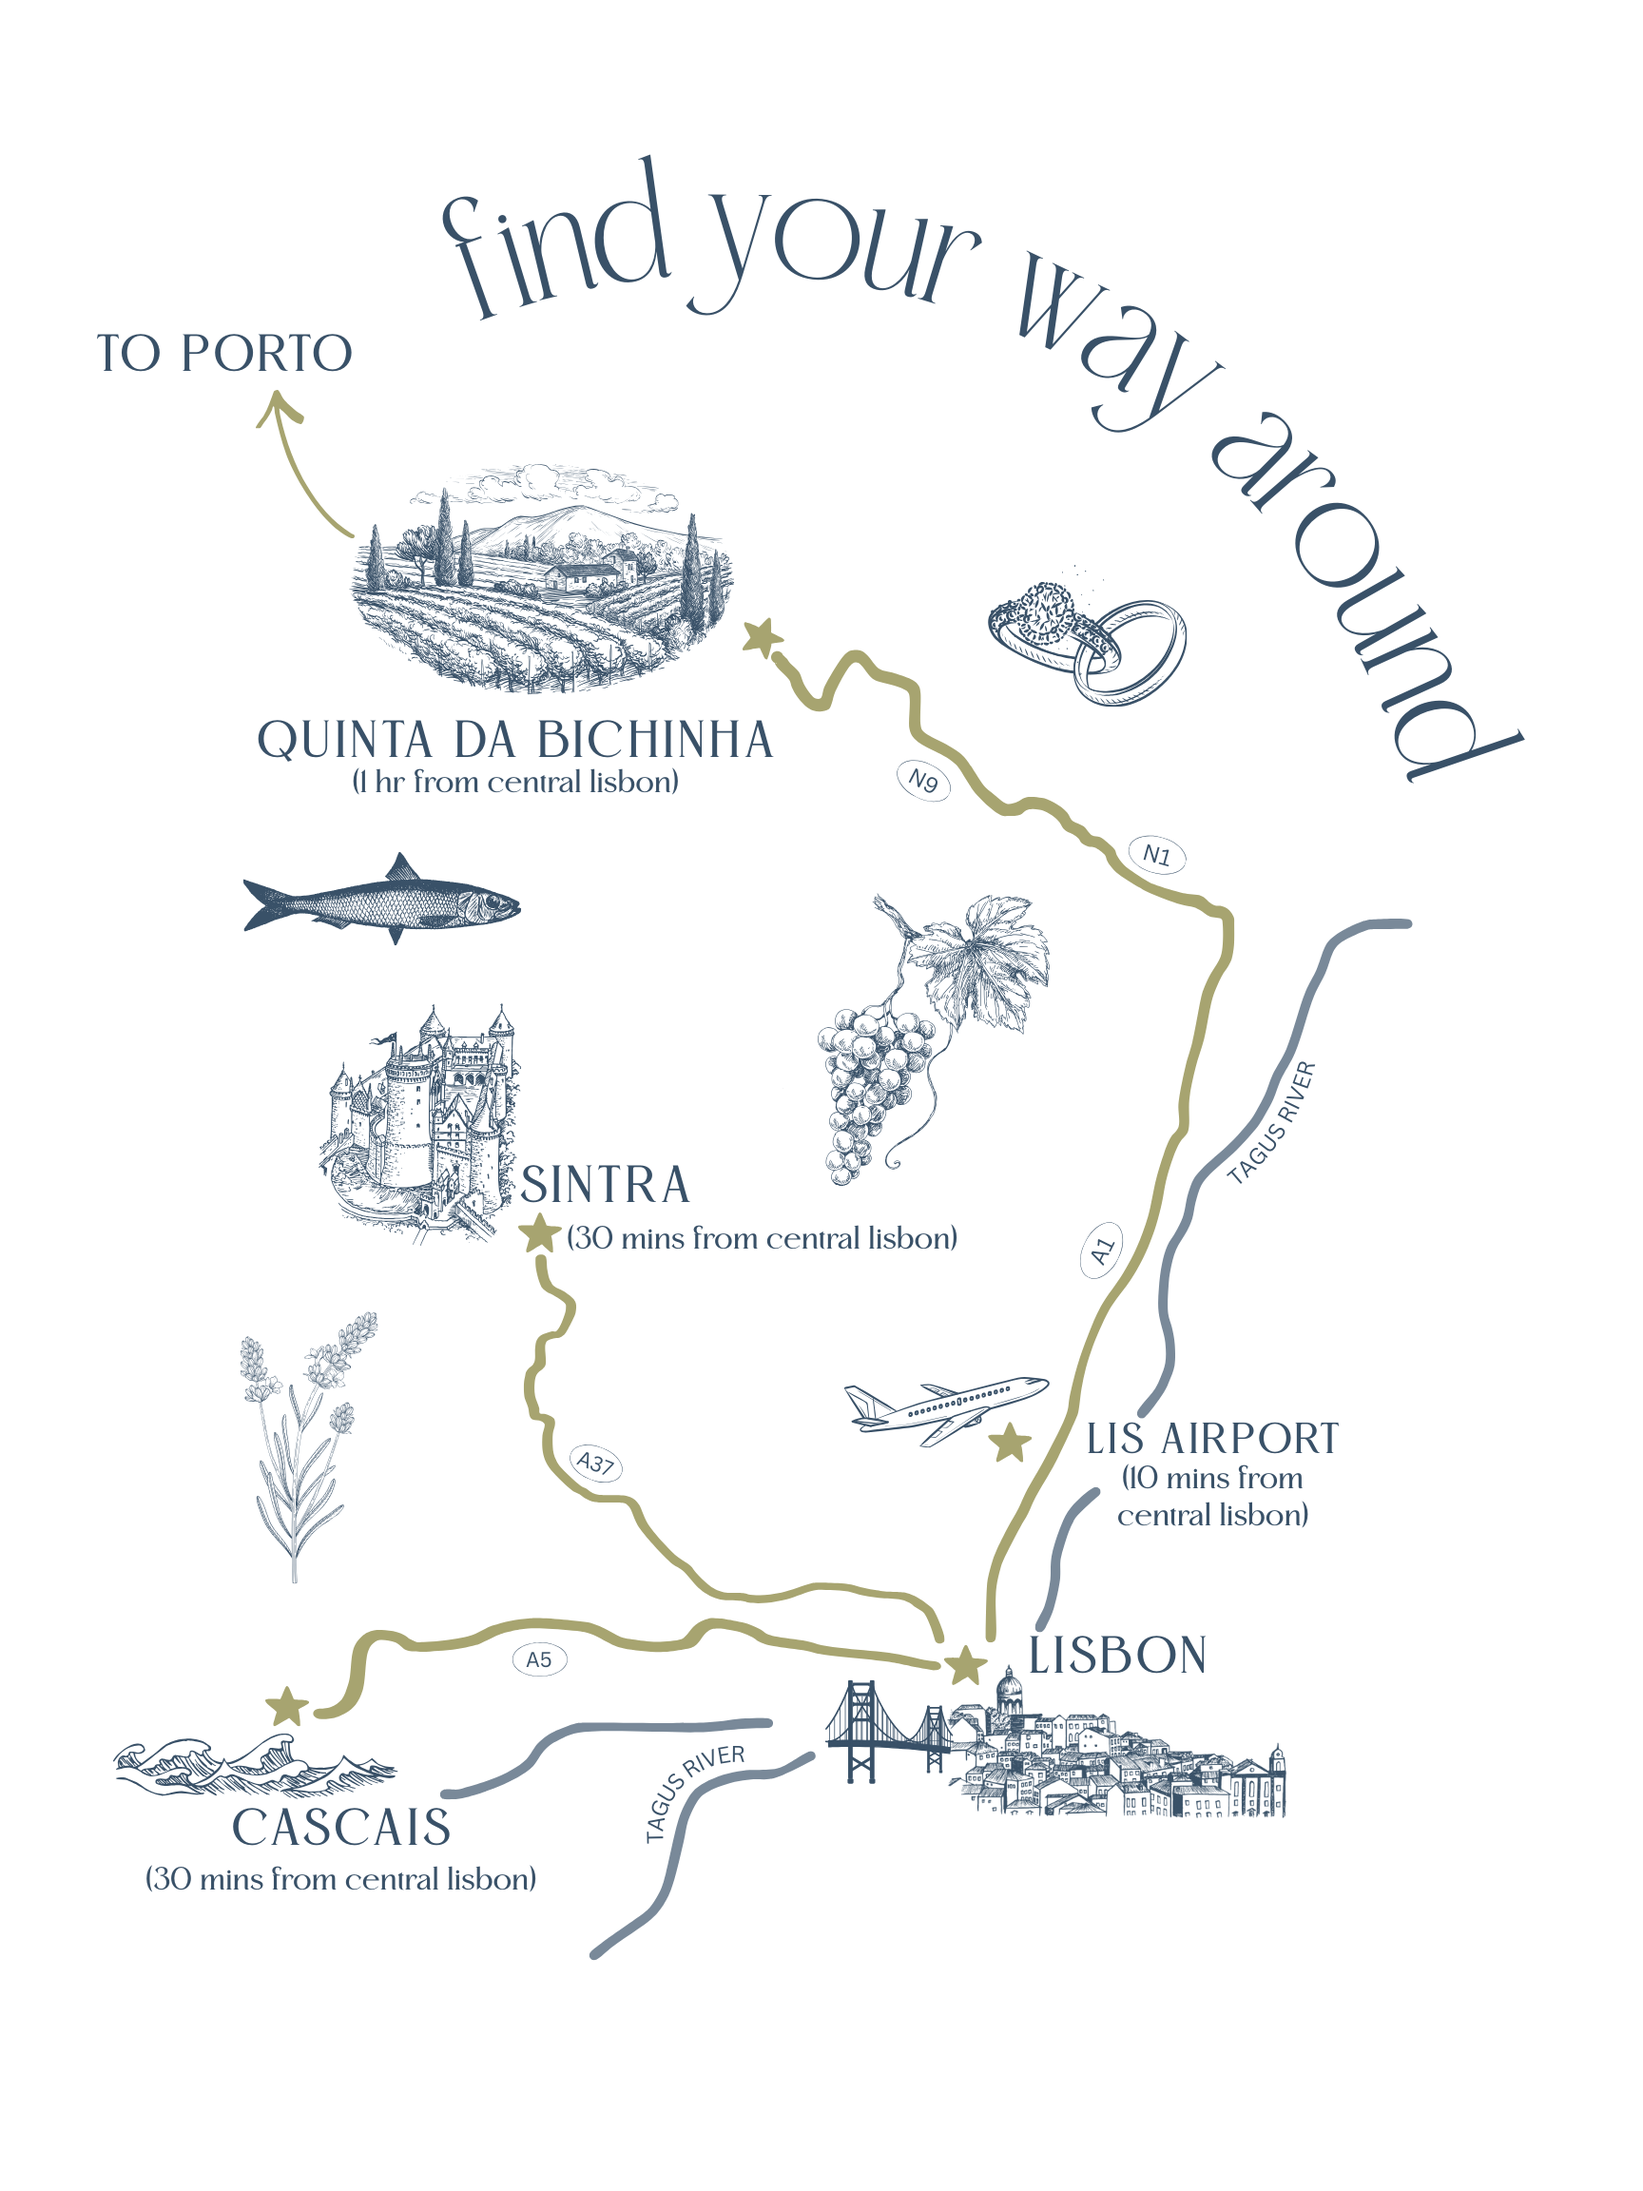
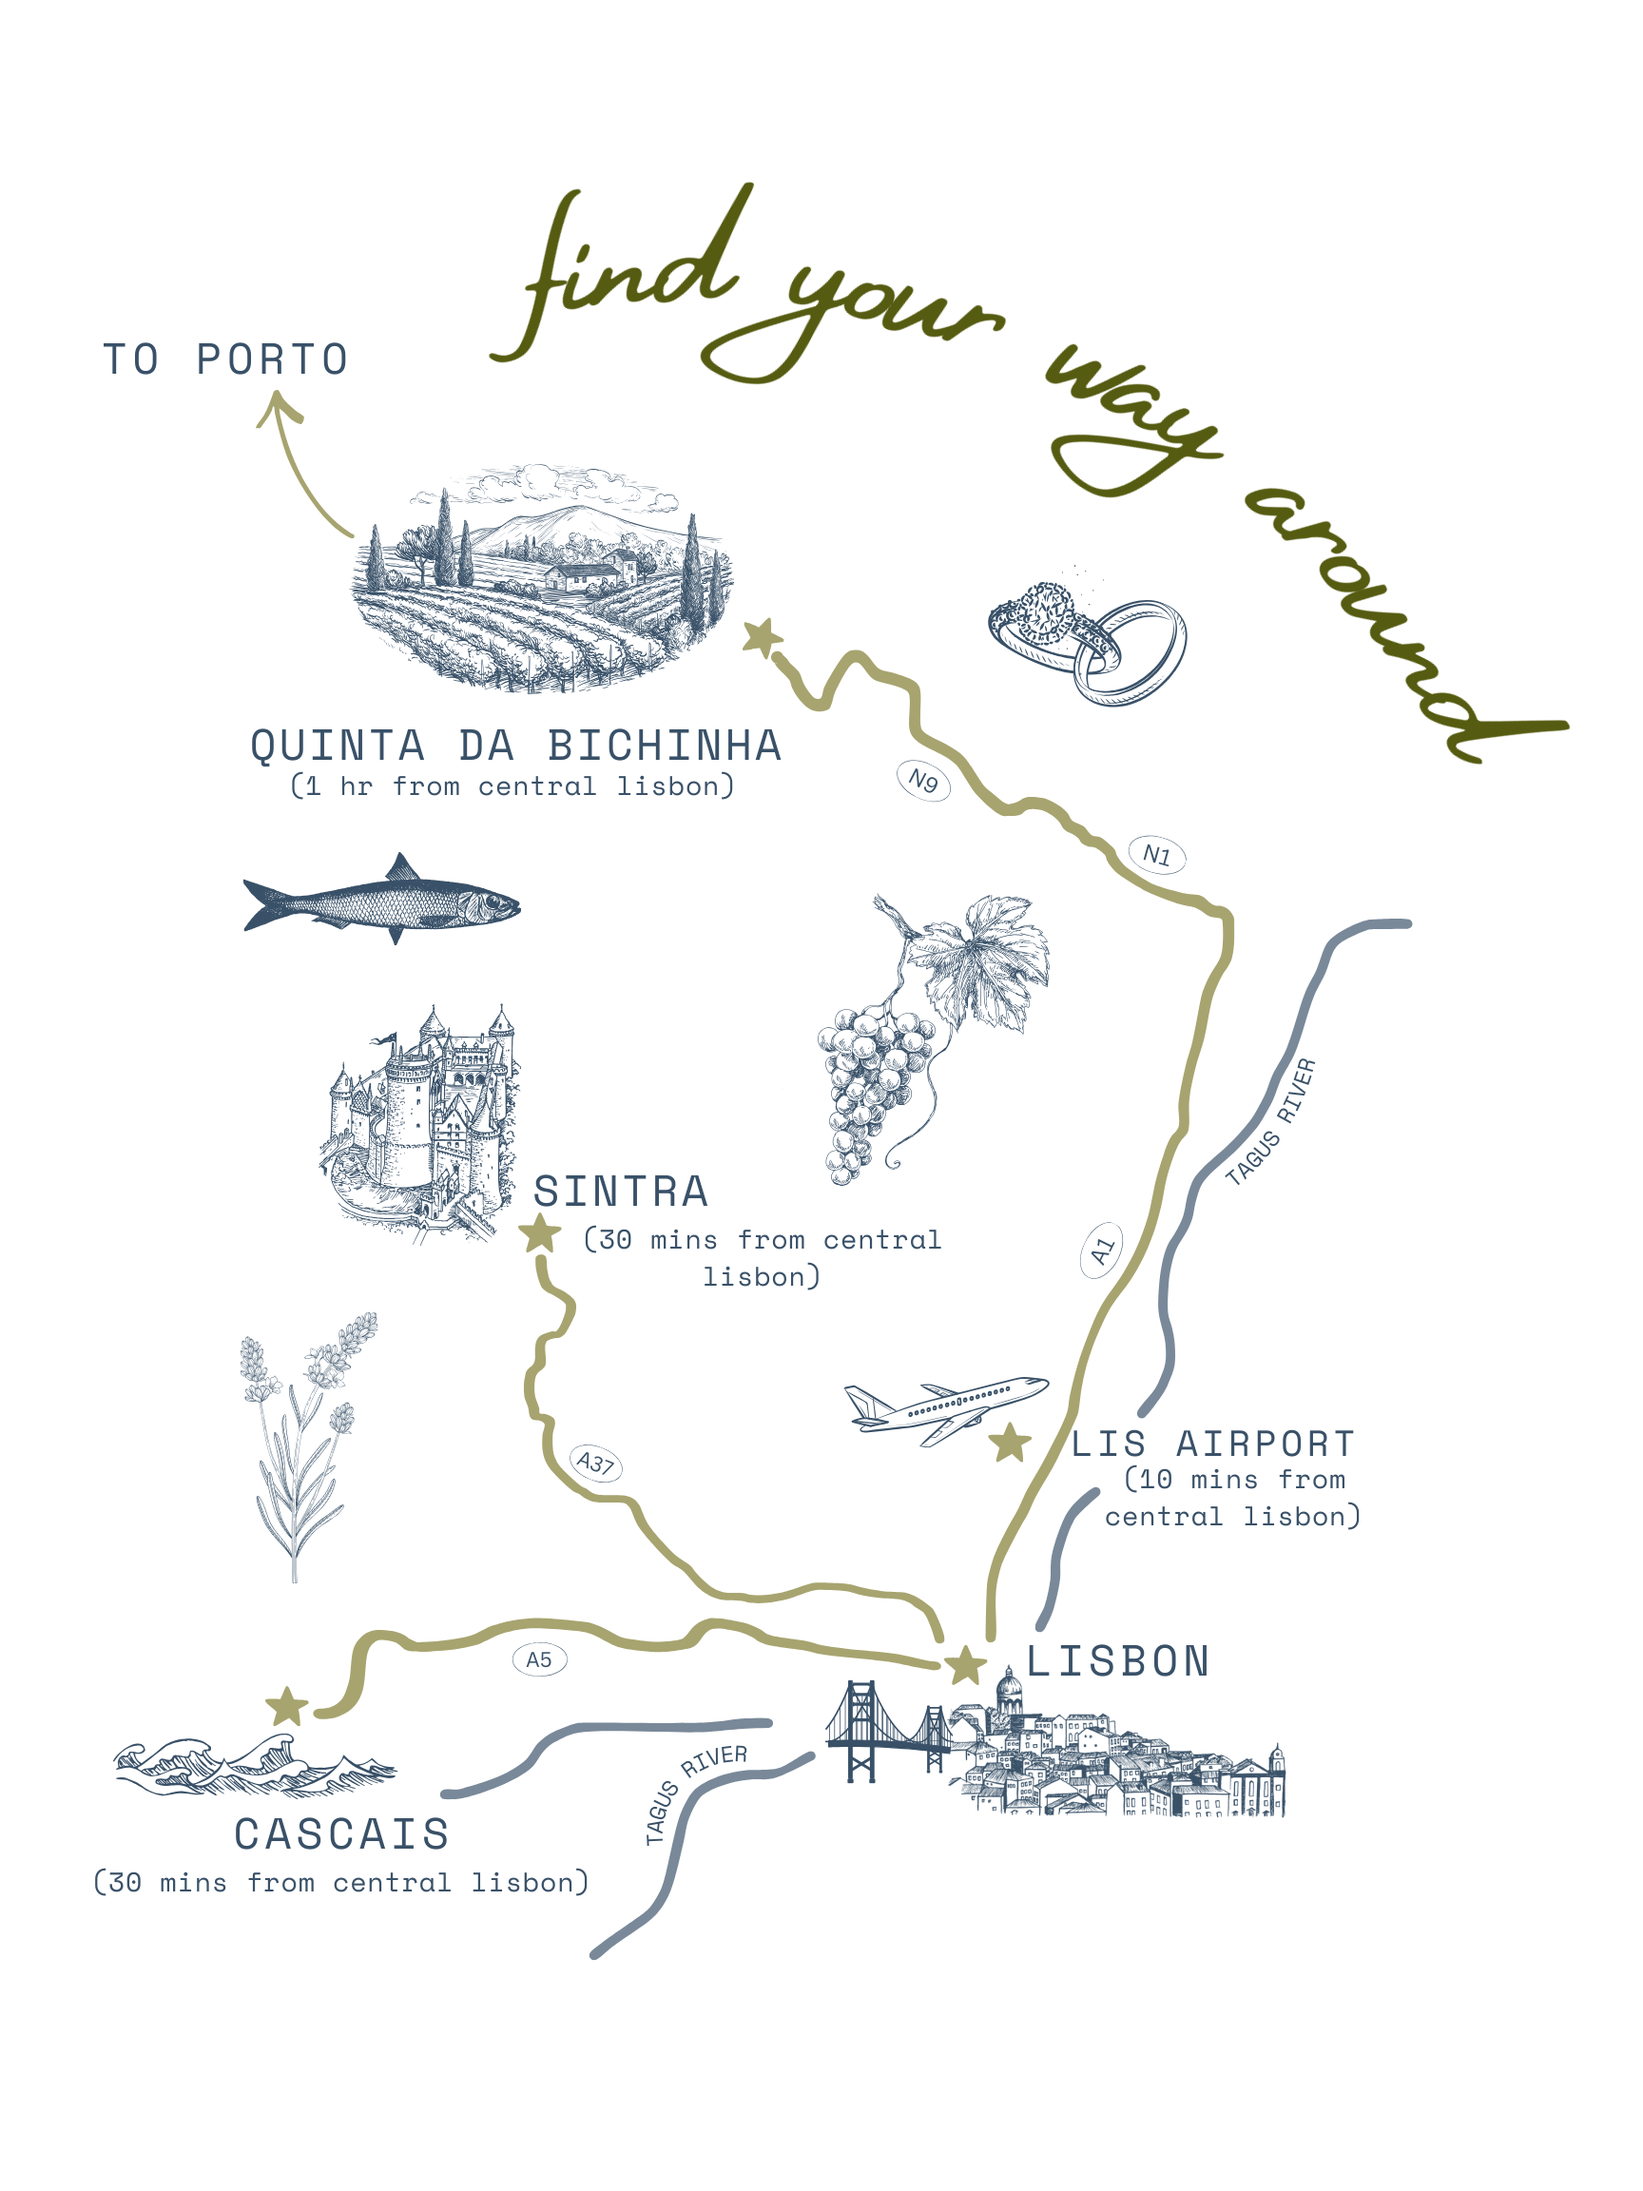
Change map

diff --git a/components/TravelSection.tsx b/components/TravelSection.tsx
@@ -1,0 +1,127 @@
+'use client';
+
+import React from 'react';
+import Image from 'next/image';
+import { motion } from 'framer-motion';
+import { ExternalLink } from 'lucide-react';
+
+const THINGS_TO_DO = [
+  {
+    title: 'Food and Wine Tour',
+    description: "We got to taste cheese, Chouriço, bifana, traditional rices, Port, and Lisbon wines. It was well worth the $, we had amazing guides, and met fun people!",
+    icon: '/images/travel-icons/food-tour.png',
+    link: 'https://tinyurl.com/yc6cs2c2'
+  },
+  {
+    title: 'Time Out Market',
+    description: "Taste the iconic pastel de nata pastries and other goodies at this historic market hall.",
+    icon: '/images/travel-icons/time-out-market.png',
+    link: 'https://www.instagram.com/timeoutmarketlisboa/?hl=en'
+  },
+  {
+    title: 'Day Trip to Sintra',
+    description: "Visit the Pena Palace and beautiful surrounding park grounds. It's truly a magical place straight out of a fairytale.",
+    icon: '/images/travel-icons/sintra.png',
+    link: 'https://tinyurl.com/2saxdryt'
+  },
+  {
+    title: 'A Ginjinha',
+    description: "Walk to A Ginjinha to shoot the sour cherry liquor Lisbon is known for - only 1.55 euros!",
+    icon: '/images/travel-icons/jijinha.png',
+    link: 'https://maps.app.goo.gl/tFev5isk7SzbzZSa6'
+  },
+  {
+    title: 'Tejo Bar',
+    description: "Hangout late into the night at Tejo Bar to hear traditional fado music. Quite possibly the smallest bar I've ever stepped foot into!",
+    icon: '/images/travel-icons/guitar.png',
+    link: 'https://maps.app.goo.gl/6aLyEiffVGoXFff57'
+  },
+  {
+    title: 'Alfama District',
+    description: "Walk around the Alfama district, Lisbon's oldest neighborhood - explore the São Jorge Castle while you're there.",
+    icon: '/images/travel-icons/sao-jorge.png',
+    link: 'https://maps.app.goo.gl/NjHjhtwX8JLwtqSj6'
+  },
+  {
+    title: 'Iconic Tram 28',
+    description: "Hop on the iconic Tram 28 with a public transport pass for a scenic tour of the city's hills.",
+    icon: '/images/travel-icons/lisbon.png',
+    link: 'https://maps.app.goo.gl/cidmmnAssngt4LZ46'
+  },
+  {
+    title: 'Belém Tower',
+    description: "Visit the Belém Tower, an iconic fortress on the Tagus river that served as a point of embarkation for Portuguese explorers.",
+    icon: '/images/travel-icons/belem-tower.png',
+    link: 'https://maps.app.goo.gl/eV1eL5LFwNwPsXHf6'
+  },
+  {
+    title: 'Day Trip to Cascais',
+    description: "A 30 min drive from Lisbon. It's a laid-back coastal town with great beaches, good food, and easy access to scenic coastal walks.",
+    icon: '/images/travel-icons/waves.png',
+    link: 'https://maps.app.goo.gl/hYUiysxtgpffCvyv8'
+  },
+  {
+    title: 'Day Trip to Obidos',
+    description: "A 1 hour drive from Lisbon. A fairy tale medieval town with charming cobblestone streets, historic castle, and unique local treats",
+    icon: '/images/travel-icons/bouginvillea.png',
+    link: 'https://maps.app.goo.gl/pctcm4JWz7TWvAob7'
+  }
+];
+
+export const TravelSection: React.FC = () => {
+  return (
+    <section className="w-full py-24 px-4 md:px-8 bg-wedding-paper text-[#3E2723]">
+      <div className="mx-auto grid grid-cols-1 md:grid-cols-2 gap-12">
+        {/* Left Side: Map */}
+        <motion.div
+          className="sticky top-0 w-full aspect-3/4 md:aspect-square"
+        >
+          <Image
+            src="/images/map.png"
+            alt="Travel Map"
+            fill
+            className="object-contain"
+            priority={false}
+            sizes="(max-width: 768px) 100vw, (max-width: 1200px) 50vw, 33vw"
+          />
+        </motion.div>
+
+        {/* Right Side: Things to Do */}
+        <div className="flex flex-col gap-8">
+          <h2 className="font-script text-wedding-green text-6xl lowercase mb-12">Things To Do</h2>
+
+          <div className="grid grid-cols-1 gap-x-8 gap-y-12">
+            {THINGS_TO_DO.map((item, idx) => (
+              <div key={idx} className="flex flex-row group">
+                <div className="relative w-44 h-44 mb-2 transition-transform duration-300 group-hover:scale-110 shrink-0">
+                  <Image
+                    src={item.icon}
+                    alt={item.title}
+                    fill
+                    className="object-contain drop-shadow-md"
+                  />
+                </div>
+
+                <div>
+                  <h3 className="font-mono text-xl text-wedding-brown mb-3 flex gap-2">
+                    {item.link ? (
+                      <a href={item.link} target="_blank" rel="noopener noreferrer" className="hover:underline hover:text-wedding-brown transition-colors decoration-1 underline-offset-4 flex items-center gap-2">
+                        {item.title} <ExternalLink size={16} />
+                      </a>
+                    ) : (
+                      item.title
+                    )}
+                  </h3>
+                  <p className="font-mono text-lg">
+                    {item.description}
+                  </p>
+                </div>
+              </div>
+            ))}
+          </div>
+
+        </div>
+      </div>
+    </section>
+  );
+};

diff --git a/app/page.tsx b/app/page.tsx
@@ -3,7 +3,7 @@ import { EnvelopeSection } from '@/components/EnvelopeSection';
 
 import { OurStory } from '@/components/OurStory';
 import { BasicDetails } from '@/components/BasicDetails';
-import { RSVP } from '@/components/RSVP';
+import { TravelSection } from '@/components/TravelSection';
 
 export default function Home() {
   return <>
@@ -11,6 +11,6 @@ export default function Home() {
     <EnvelopeSection />
     <OurStory />
     <BasicDetails />
-    {/* <RSVP /> */}
+    <TravelSection />
   </>;
 }
